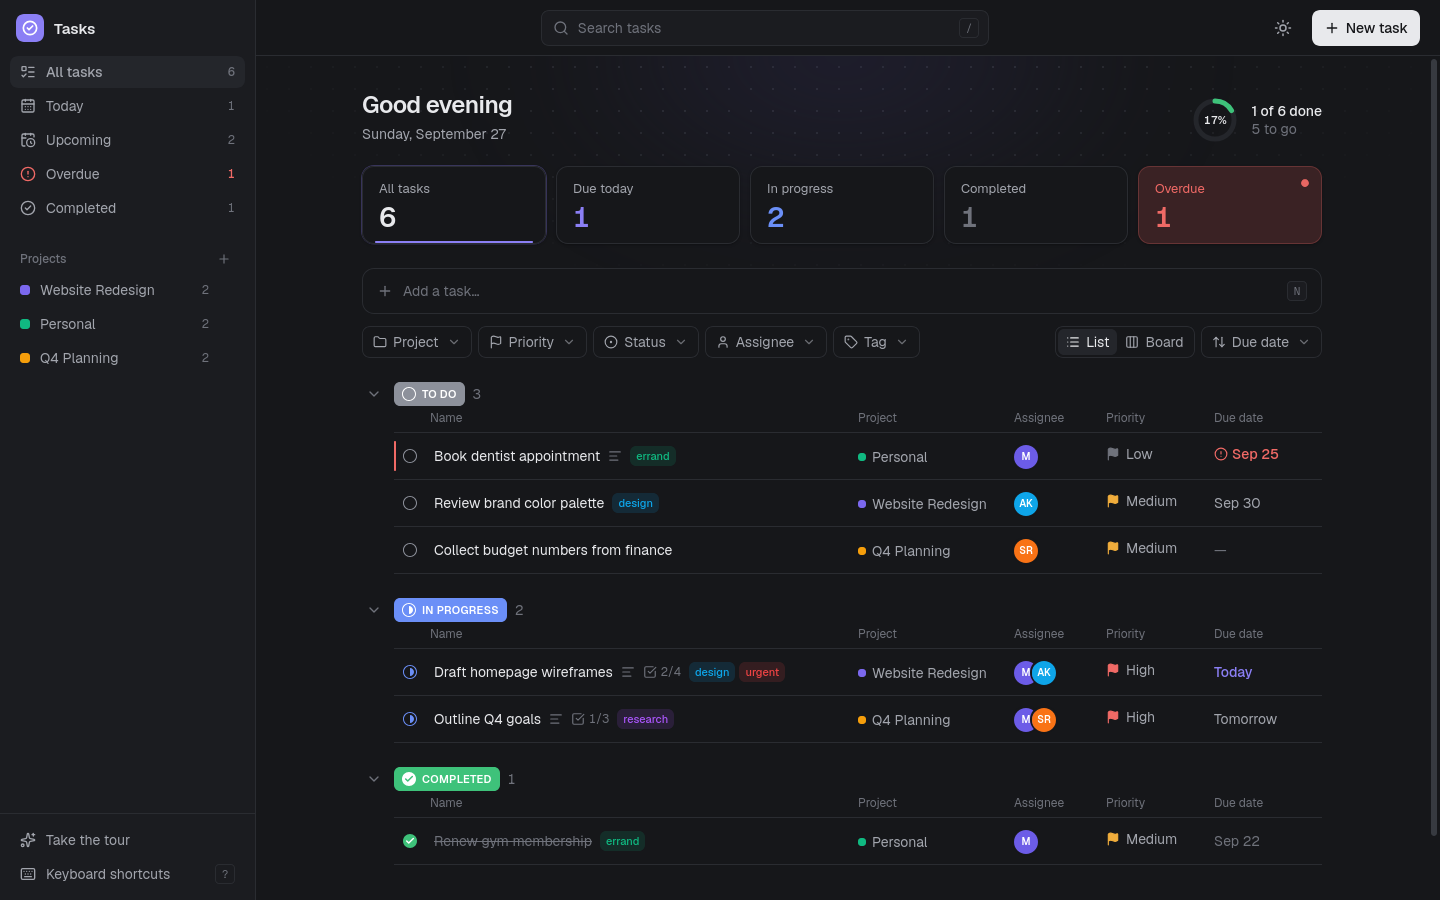
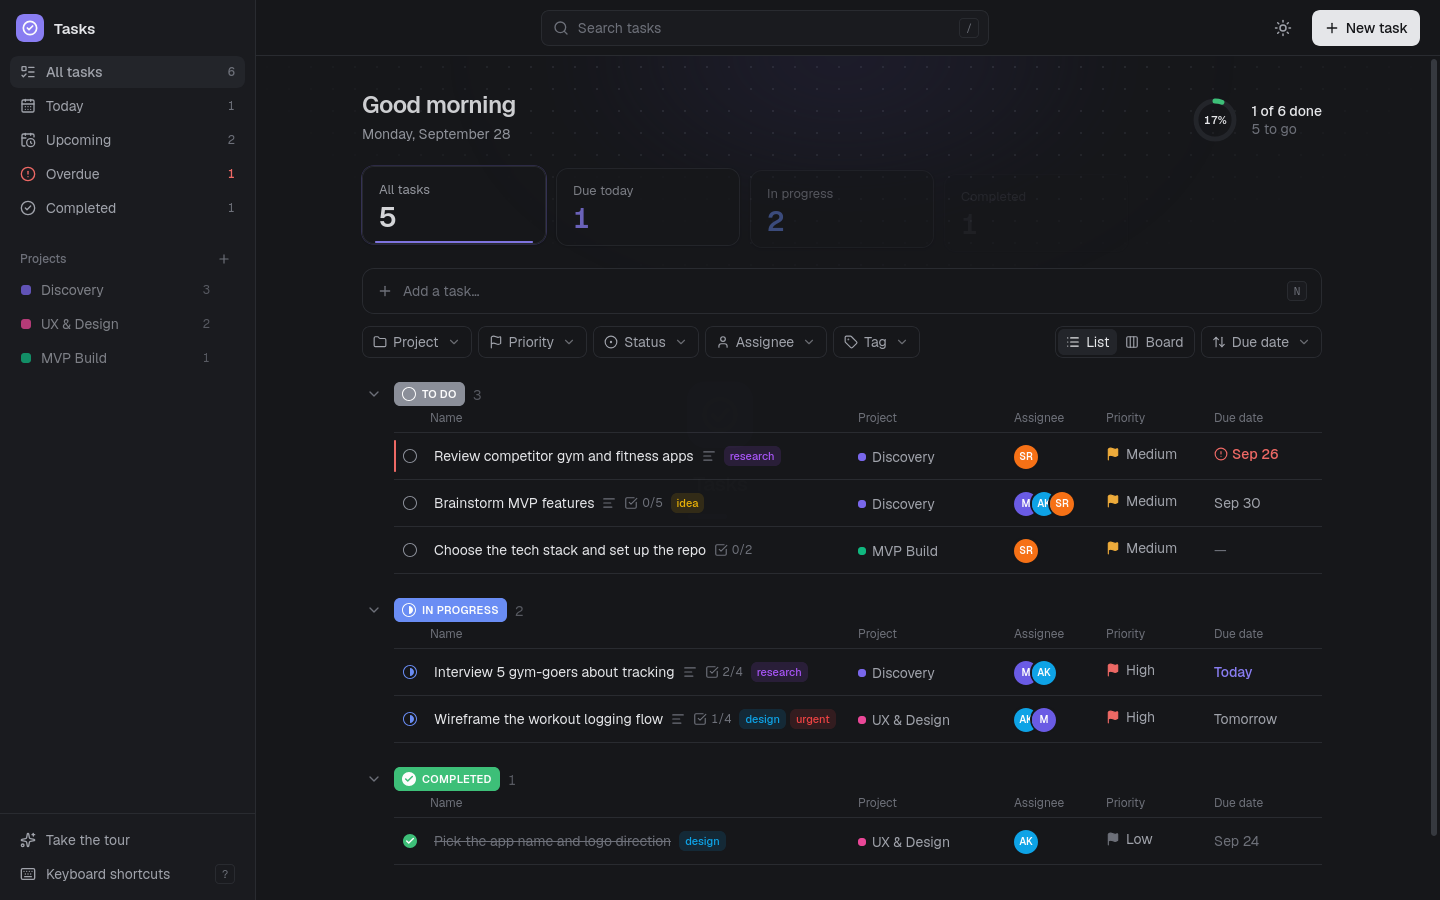
Refresh README for the gym app sample data and add a themes section
Retook all screenshots with the gym brainstorm data in light and dark,
updated the banner's example tasks, added a side-by-side Light & dark
section and documented the start-up splash.

diff --git a/README.md b/README.md
@@ -64,22 +64,44 @@ Single user · Works offline in your browser · Light & dark · Keyboard first
     </td>
     <td valign="top">
       <h3>🧭 Understood in seconds</h3>
-      A short guided tour on first visit shows the core moves. Replay it any time from the sidebar.
+      An animated splash, then a short guided tour on first visit shows the core moves. Replay it any time from the sidebar.
     </td>
   </tr>
 </table>
 
-## 📸 Screenshots
+## 🌗 Light & dark
+
+Both themes are designed side by side, not bolted on. Tasks follows your system setting on first visit, switches with one click (☀ / 🌙 in the top bar), remembers your choice, and never flashes the wrong theme on load.
 
 <table>
   <tr>
     <td width="50%">
-      <picture>
-        <source media="(prefers-color-scheme: dark)" srcset="docs/screenshots/board-dark.png" />
-        <img src="docs/screenshots/board-light.png" alt="Board view with To do, In progress and Completed columns" />
-      </picture>
-      <p align="center"><sub><b>Board view</b>: drag between columns to change status</sub></p>
+      <img src="docs/screenshots/list-light.png" alt="List view in the light theme" />
+      <p align="center"><sub><b>Light</b></sub></p>
     </td>
+    <td width="50%">
+      <img src="docs/screenshots/list-dark.png" alt="List view in the dark theme" />
+      <p align="center"><sub><b>Dark</b></sub></p>
+    </td>
+  </tr>
+  <tr>
+    <td width="50%">
+      <img src="docs/screenshots/board-light.png" alt="Board view in the light theme" />
+    </td>
+    <td width="50%">
+      <img src="docs/screenshots/board-dark.png" alt="Board view in the dark theme" />
+    </td>
+  </tr>
+</table>
+
+Every color is a design token (`--bg`, `--fg`, `--accent`, `--line`, …) defined once for each theme in [`globals.css`](src/app/globals.css), so the illustrations, charts, tour popovers and scrollbars all switch together.
+
+## 📸 Screenshots
+
+> The screenshots show the built-in sample data: an early brainstorm for **building a gym app**, spread across *Discovery*, *UX & Design* and *MVP Build*.
+
+<table>
+  <tr>
     <td width="50%">
       <picture>
         <source media="(prefers-color-scheme: dark)" srcset="docs/screenshots/drawer-dark.png" />
@@ -87,19 +109,19 @@ Single user · Works offline in your browser · Light & dark · Keyboard first
       </picture>
       <p align="center"><sub><b>Task panel</b>: everything editable, saved as you type</sub></p>
     </td>
-  </tr>
-  <tr>
     <td width="50%">
       <img src="docs/screenshots/tour.png" alt="Guided tour popover pointing at the completion checkbox" />
       <p align="center"><sub><b>Guided tour</b>: shown once on first visit</sub></p>
     </td>
-    <td width="50%">
+  </tr>
+  <tr>
+    <td colspan="2">
       <p align="center">
-        <img src="docs/screenshots/mobile-light.png" alt="Mobile layout, light theme" width="45%" />
-        &nbsp;
-        <img src="docs/screenshots/mobile-dark.png" alt="Mobile layout, dark theme" width="45%" />
+        <img src="docs/screenshots/mobile-light.png" alt="Mobile layout, light theme" width="30%" />
+        &nbsp;&nbsp;
+        <img src="docs/screenshots/mobile-dark.png" alt="Mobile layout, dark theme" width="30%" />
       </p>
-      <p align="center"><sub><b>Mobile</b>: light and dark, equally polished</sub></p>
+      <p align="center"><sub><b>Mobile</b>: the sidebar becomes a slide-out menu and each task shows its details on a second line</sub></p>
     </td>
   </tr>
 </table>
@@ -117,7 +139,8 @@ Single user · Works offline in your browser · Light & dark · Keyboard first
 | **Filters & search** | Project, priority, status, assignee, tag. Search matches titles, descriptions, subtasks and tag names |
 | **Sort** | Due date · Priority · Created date · A to Z |
 | **Feedback** | Toasts for every action, illustrated empty states that say what to do next |
-| **Themes** | Light and dark. Follows your system until you choose |
+| **Themes** | Light and dark, equally polished. Follows your system until you choose, with no flash on load |
+| **Start-up** | Animated splash (logo, ring and check draw in) that plays from the first paint, then hands over to the app |
 | **Persistence** | Everything lives in `localStorage` and survives a refresh. No server, no sync |
 | **Seed data** | 3 projects, 6 tasks, 3 people and 4 tags on first run (a gym app brainstorm), dated relative to today |
 
@@ -142,7 +165,7 @@ npm install
 npm run dev
 ```
 
-Open **http://localhost:3000**. The app starts with sample data so it never opens empty.
+Open **http://localhost:3000**. The app starts with sample data (a gym app brainstorm) so it never opens empty.
 
 | Command | What it does |
 | --- | --- |
@@ -151,7 +174,7 @@ Open **http://localhost:3000**. The app starts with sample data so it never open
 | `npm start` | Serve the production build |
 | `npm run lint` | Run ESLint |
 
-> **Tip:** to start fresh, clear this site's data in your browser (DevTools → Application → Local storage).
+> **Tip:** sample data is only created when your browser has no saved data. To start fresh, or to see the latest sample data, clear this site's data (DevTools → Application → Local storage) and reload.
 
 ## 🏗 How it's built
 
